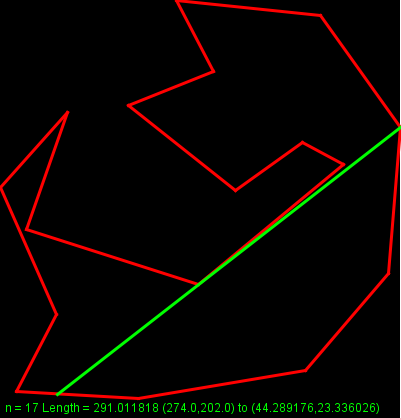
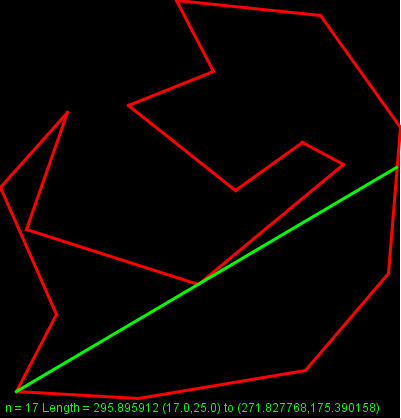
issue correction for example 'data17' due to typo

diff --git a/src/main/java/algorithms/airport/Island.java b/src/main/java/algorithms/airport/Island.java
@@ -7,7 +7,6 @@ import java.util.*;
 
 import static algorithms.airport.Utility.isPointOnLine;
 
-
 public class Island extends Polygon {
 
     /**
@@ -44,8 +43,8 @@ public class Island extends Polygon {
     /**
      * Tests where a line between two vertices is fully contained by the island
      *
-     * @param a The first vertex
-     * @param b The second vertex
+     * @param a The index of the first vertex
+     * @param b The index of the second vertex
      * @return True if the line is inside the polygon
      */
     public boolean containsLine(int a, int b) {
@@ -125,8 +124,8 @@ public class Island extends Polygon {
         final LinkedList<Point2D> list = new LinkedList<>();
 
         for (int i = 0; i < size() - 1; i++) {
-            if (xpoints[i] == a.getY() && ypoints[i] == a.getY() || xpoints[i + 1] == a.getX() && ypoints[i + 1] == a.getY()
-                    || xpoints[i] == b.getY() && ypoints[i] == b.getY() || xpoints[i + 1] == b.getX() && ypoints[i + 1] == b.getY())
+            if (xpoints[i] == a.getX() && ypoints[i] == a.getY() || xpoints[i + 1] == a.getX() && ypoints[i + 1] == a.getY()
+                    || xpoints[i] == b.getX() && ypoints[i] == b.getY() || xpoints[i + 1] == b.getX() && ypoints[i + 1] == b.getY())
                 continue;
             Line2D.Double edge = new Line2D.Double(xpoints[i], ypoints[i], xpoints[i + 1], ypoints[i + 1]);
             Point2D intersection = getIntersection(new Line2D.Double(a, b), edge);
@@ -135,8 +134,8 @@ public class Island extends Polygon {
                 list.add(intersection);
         }
 
-        if (xpoints[0] == a.getY() && ypoints[0] == a.getY() || xpoints[npoints - 1] == a.getX() && ypoints[npoints - 1] == a.getY()
-                || xpoints[0] == b.getY() && ypoints[0] == b.getY() || xpoints[npoints - 1] == b.getX() && ypoints[npoints - 1] == b.getY())
+        if (xpoints[0] == a.getX() && ypoints[0] == a.getY() || xpoints[npoints - 1] == a.getX() && ypoints[npoints - 1] == a.getY()
+                || xpoints[0] == b.getX() && ypoints[0] == b.getY() || xpoints[npoints - 1] == b.getX() && ypoints[npoints - 1] == b.getY())
             return list;
 
         Line2D.Double edge = new Line2D.Double(xpoints[npoints - 1], ypoints[npoints - 1], xpoints[0], ypoints[0]);
